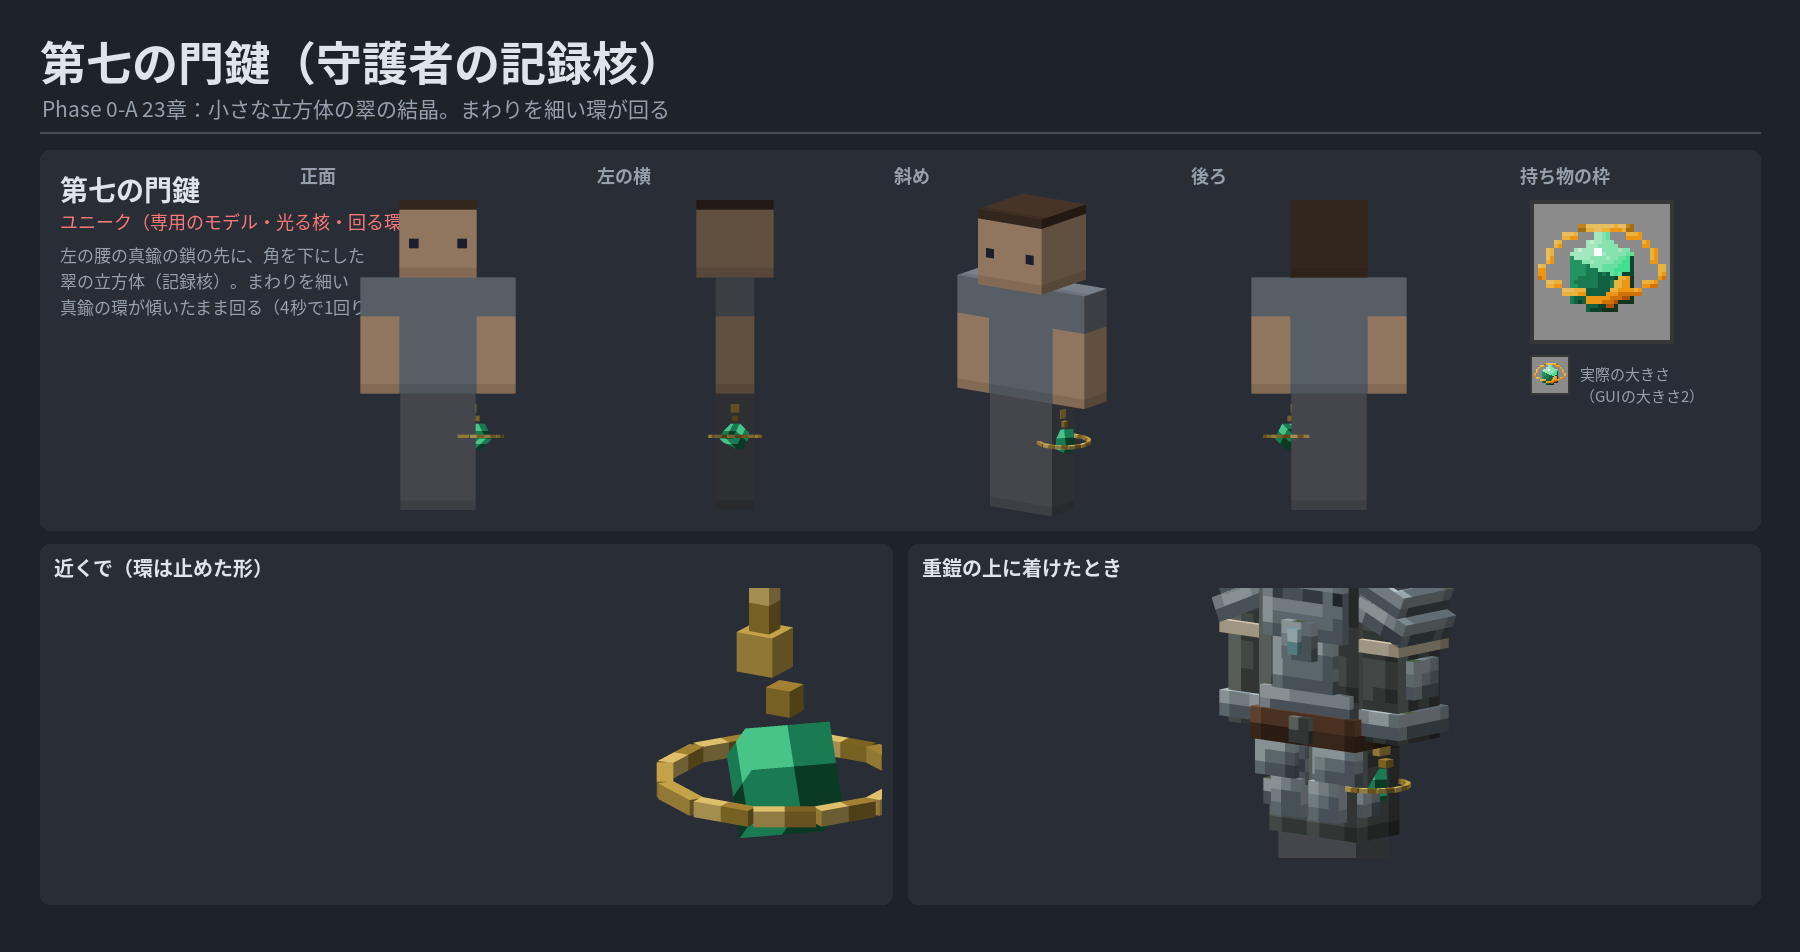
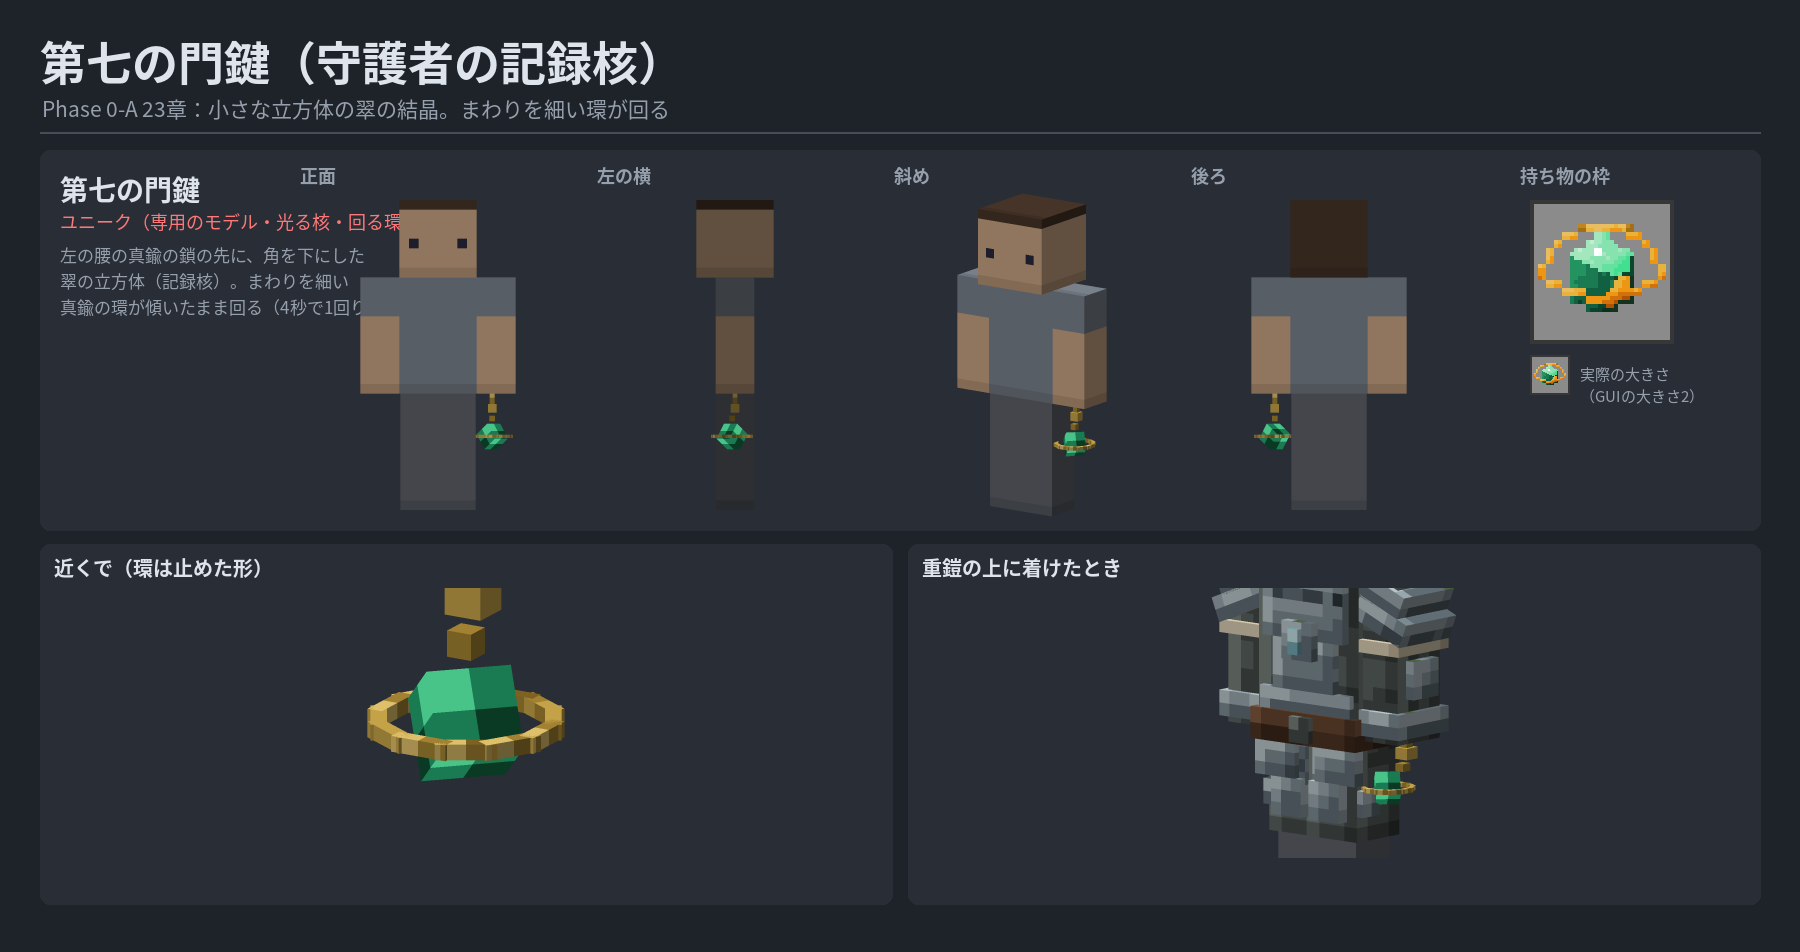
CIの写真を見て直す：ロックオンの写真（CIは画面を開いたまま撮るので、キーではなく直接ロックする）・第七の門鍵を足の外へ・次の階への円の写真の向き
- ロックオン：CIは透明な画面を開いたまま撮るため、キーの押下が捨てられ、ロックされていなかった（遊ぶときは変わらない）
- 第七の門鍵：立方体が足に半分埋まって見えていたので、腰の少し外（足の外）へ出し、環を小さくした
- 次の階への円：足もとを見すぎていたので、少し離れて円が真ん中に来るように

Claude-Session: https://claude.ai/code/session_011hxrihs1qhWrkPs3EszSvT

diff --git a/tools/artgen/make_gate_key.py b/tools/artgen/make_gate_key.py
@@ -22,8 +22,8 @@ from make_floor_accessory_art import FloorAccessoryPainter, hip_cord, ICONS  # n
 from materials import hexc  # noqa: E402
 
 NAME = "seventh_gate_key"
-CX, CY, CZ = -4.0, 7.6, 0.0      # 記録核のまん中（ゲームの中の向き：体の右が +x、表が −z）
-RING_R = 2.6
+CX, CY, CZ = -5.6, 7.6, -0.3     # 記録核のまん中（ゲームの中の向き：体の右が +x、表が −z）。足の外（足は x −4〜0）
+RING_R = 1.9
 RING_TILT = 24.0
 
 
@@ -34,7 +34,7 @@ def build():
     # ボーンの pivot は Bedrock の向き（x を反転）
     g.bone("key_core", (-CX, CY, CZ), parent="armorBody")
     g.bone("key_ring", (-CX, CY, CZ), parent="armorBody")
-    hip_cord(g, "brass", "brass", x=-4.5)
+    hip_cord(g, "brass", "brass", x=CX - 1.0)
     # 鎖の先の留め金（立方体の上の角をつかむ）
     gcube(g, "armorBody", "bail", (CX - 0.5, CY + 1.35, CZ - 0.5), (1, 1, 1), "brass", inflate=-0.2)
     # 記録核：角を下にした翠の立方体（Y に45度・X に35度まわす）。光る
@@ -144,7 +144,7 @@ def sheet(repo, out, g, frames):
              "pairs": [(man, mtex), (g, frames[0])], "icon": disk_icon(repo, NAME),
              "views": [("正面", 180, 0), ("左の横", 90, 0), ("斜め", 145, 14), ("後ろ", 0, 0)]}]
     details = [
-        {"label": "近くで（環は止めた形）", "pairs": [(g, frames[0])], "center": (-CX, CY, CZ), "yaw": 150, "pitch": 18, "scale": 46},
+        {"label": "近くで（環は止めた形）", "pairs": [(g, frames[0])], "center": (CX, CY, CZ), "yaw": 150, "pitch": 18, "scale": 46},
         {"label": "重鎧の上に着けたとき", "pairs": [(man, mtex), (AA.subset(plate, chest), ptex), (armored(g, True), frames[0])],
          "center": (0, 12, 0), "yaw": 140, "pitch": 10, "scale": 13},
     ]

diff --git a/src/main/java/jp/amemaru/lostconnection/client/CiPhase8.java b/src/main/java/jp/amemaru/lostconnection/client/CiPhase8.java
@@ -57,8 +57,8 @@ final class CiPhase8 {
                 LostWoodsService.placeKnot(player, def.number(), woods.id(), woods.exits().indexOf(exit), post);
             }));
             case "p8_hold" -> CiPhase3.onServer(minecraft, player -> CiGear.hold(player, "-".equals(shot[3]) ? null : shot[3], null));
-            // 11月24日：ロックオンのキー（B）を1回押したことにする（見ている敵をロック。照準の印と名前・距離・HPを撮る）
-            case "p8_lock" -> net.minecraft.client.KeyMapping.click(KeyBindings.LOCK_ON.getKey());
+            // 11月24日：ロックオンのキー（B）を1回押したのと同じ（見ている敵をロック。照準の印と名前・距離・HPを撮る）
+            case "p8_lock" -> TargetLock.ciPress(minecraft);
             // 11月24日：お守りの枠に付ける（「-」で外す）。5階のユニーク「第七の門鍵」の、体に表示するモデルを撮る
             case "p8_charm" -> CiPhase3.onServer(minecraft, player -> CiPhase3.setCurio(player,
                     jp.amemaru.lostconnection.accessory.AccessorySlot.CHARM,

diff --git a/src/main/java/jp/amemaru/lostconnection/client/TargetLock.java b/src/main/java/jp/amemaru/lostconnection/client/TargetLock.java
@@ -144,6 +144,22 @@ public final class TargetLock {
         turnTicks = 0;
     }
 
+    /**
+     * 自動の確認（CIの写真）用：ロックのキーを1回押したのと同じ。ロックしていなければ見ている敵を、していれば右どなりの敵をロックする。
+     * CI は透明な画面を開いたまま撮るので（画面を開いている間のキーは捨てる決まり）、キーではなくここから呼ぶ。
+     */
+    static void ciPress(Minecraft minecraft) {
+        LocalPlayer player = minecraft.player;
+        if (player == null || minecraft.level == null) {
+            return;
+        }
+        LivingEntity current = target();
+        LivingEntity next = pick(player, current);
+        if (next != null && next != current) {
+            lock(next);
+        }
+    }
+
     private static void lock(LivingEntity entity) {
         lockedId = entity.getId();
         lockedLevel = (ClientLevel) entity.level();

diff --git a/src/main/java/jp/amemaru/lostconnection/client/CiScreenshots.java b/src/main/java/jp/amemaru/lostconnection/client/CiScreenshots.java
@@ -1437,7 +1437,7 @@ public final class CiScreenshots {
             {"snap_keep", null, "120", "phase8_f4_boss_title"},
             {"await_idle", null, "0"},
             // 11月24日：倒したあと、出口の円の横に金の縁の「次の階への円」（5階はまだ開いていない）
-            {"cmd", null, "40", "execute in amemaru:tower run tp @p {f4:268.0,25,61.5} 180 35"},
+            {"cmd", null, "40", "execute in amemaru:tower run tp @p {f4:268.0,25,64.5} 180 12"},
             {"snap", null, "40", "phase8_next_circle"},
             {"cmd", null, "5", "amemaru admin job set @p amemaru:healer"},
             {"p8_hold", null, "20", "prayer_bell_staff"},
